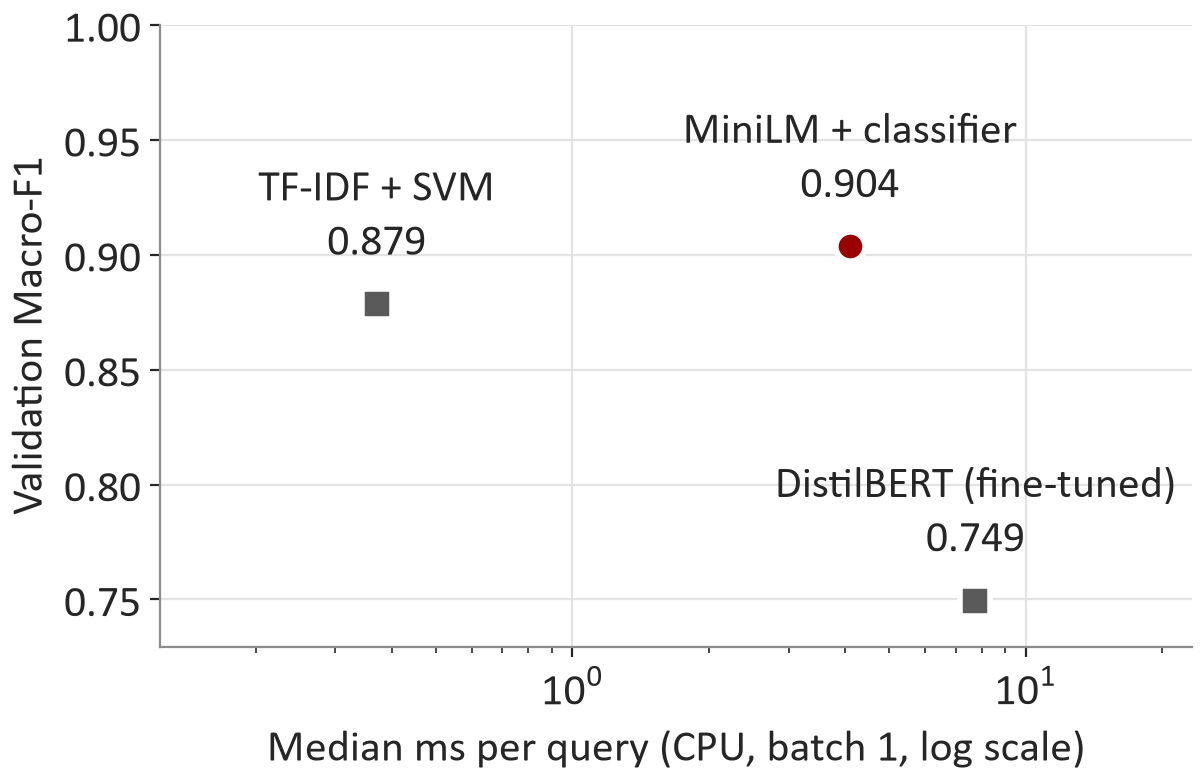
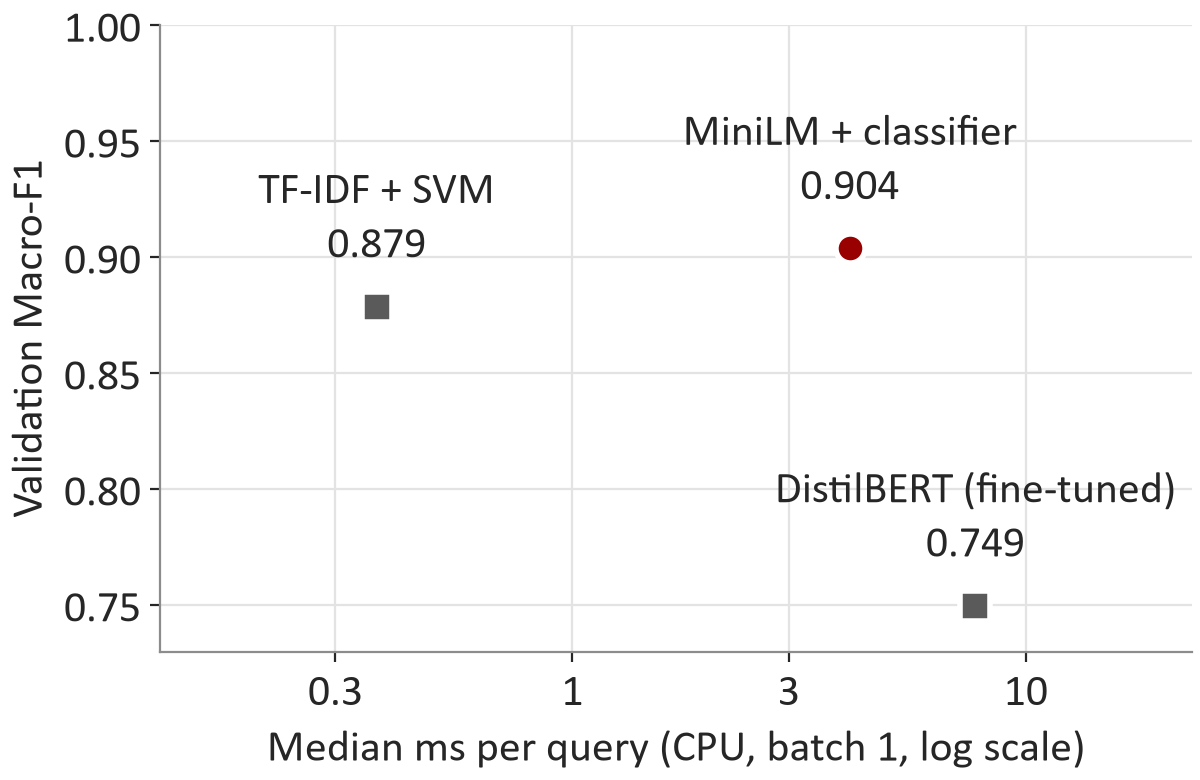
Align M3 numbers and evidence docs with the final deck

diff --git a/m3/analysis/numbers.py b/m3/analysis/numbers.py
@@ -32,6 +32,11 @@ def pct(key, v, src, note="", nd=1):
     put(key, v, f"{v * 100:.{nd}f}%", src, note)
 
 
+def exact(d, num, den, rate):
+    """Recompute a rate from its counts when they are stored (the JSON rate is pre-rounded to 4 decimals)."""
+    return d[num] / d[den] if d.get(den) else d[rate]
+
+
 def f1(key, v, src, note=""):
     put(key, v, f"{v:.3f}", src, note)
 
@@ -133,8 +138,8 @@ def detector():
         pct(f"{v}_sel_full", d["ledger"]["ALL"]["full_span_recall"], f"results/m3/detector/{v}.json:ledger.ALL")
         pct(f"{v}_sel_leak", d["ledger"]["ALL"]["residual_leak_rate"], f"results/m3/detector/{v}.json:ledger.ALL", nd=2)
         cnt(f"{v}_sel_leaks", d["ledger"]["ALL"]["residual_leak"], f"results/m3/detector/{v}.json:ledger.ALL")
-        pct(f"{v}_sel_over", d["over_redaction"]["over_redaction_rate"], f"results/m3/detector/{v}.json:over_redaction")
-        pct(f"{v}_dev_recall", d["challenge_dev"]["by_type"]["ALL"]["detection_recall"], f"results/m3/detector/{v}.json:challenge_dev")
+        pct(f"{v}_sel_over", exact(d["over_redaction"], "flagged", "n", "over_redaction_rate"), f"results/m3/detector/{v}.json:over_redaction")
+        pct(f"{v}_dev_recall", exact(d["challenge_dev"]["by_type"]["ALL"], "found", "n", "detection_recall"), f"results/m3/detector/{v}.json:challenge_dev")
         ms(f"{v}_median_ms", d["latency"]["median_ms"], f"results/m3/detector/{v}.json:latency")
     cnt("n_trainval_ledger", read_json(DET / "V1.json")["ledger"]["ALL"]["n"], "results/m3/detector/V1.json")
     for v in ("V1", sel):
@@ -151,11 +156,11 @@ def detector():
             pct(f"{v}_test_recall_{ty}", t[ty]["detection_recall"], src + f":ledger_test.{ty}")
         cnt(f"{v}_all_leaks", a["ALL"]["residual_leak"], src + ":ledger_all_13083.ALL")
         pct(f"{v}_all_recall", a["ALL"]["detection_recall"], src + ":ledger_all_13083.ALL")
-        pct(f"{v}_test_over", d["over_redaction_test"]["over_redaction_rate"], src + ":over_redaction_test")
+        pct(f"{v}_test_over", exact(d["over_redaction_test"], "flagged", "n", "over_redaction_rate"), src + ":over_redaction_test")
         h = d["challenge_heldout"]
-        pct(f"{v}_held_recall", h["by_type"]["ALL"]["detection_recall"], src + ":challenge_heldout.by_type.ALL")
+        pct(f"{v}_held_recall", exact(h["by_type"]["ALL"], "found", "n", "detection_recall"), src + ":challenge_heldout.by_type.ALL")
         pct(f"{v}_held_leak", h["by_type"]["ALL"]["residual_leak_rate"], src + ":challenge_heldout.by_type.ALL")
-        pct(f"{v}_held_neg_fp", h["negatives"]["false_positive_rate"], src + ":challenge_heldout.negatives")
+        pct(f"{v}_held_neg_fp", exact(h["negatives"], "flagged", "n", "false_positive_rate"), src + ":challenge_heldout.negatives")
         for ty in ("PERSON", "EMAIL", "PHONE", "ADDRESS"):
             pct(f"{v}_held_recall_{ty}", h["by_type"][ty]["detection_recall"], src + f":challenge_heldout.by_type.{ty}")
         ms(f"{v}_all_median_ms", d["latency_all"]["median_ms"], src + ":latency_all")
@@ -192,7 +197,7 @@ def models():
     f1("b0_accuracy", v["accuracy"], b0 + ":val.C1.accuracy", "majority-class floor")
     put("b0_macro_f1", v["macro_f1"], f"{v['macro_f1']:.4f}", b0 + ":val.C1.macro_f1", "majority-class floor")
     for k, other in (("gap_b2_b1", "e1_b1_macro_f1"), ("gap_b2_t1", "e1_t1_macro_f1")):
-        g = round(N["e1_b2_macro_f1"]["value"], 3) - round(N[other]["value"], 3)  # matches the 3-decimal values shown
+        g = N["e1_b2_macro_f1"]["value"] - N[other]["value"]  # unrounded scores, rounded once for display
         put(k, g, f"{abs(g) * 100:.1f} pp", f"derived: e1_b2_macro_f1 - {other}", "unsigned gap in validation Macro-F1")
     put("speedup_b1_vs_b2", N["e1_b2_ms"]["value"] / N["e1_b1_ms"]["value"],
         f"{N['e1_b2_ms']['value'] / N['e1_b1_ms']['value']:.0f}x", "derived: median ms b2 / b1")
@@ -298,6 +303,16 @@ def experiments():
     # risk-coverage
     rc = read_json(AN / "risk_coverage.json")
     put("tau", rc["tau"], f"{rc['tau']:.2f}", "results/m3/analysis/risk_coverage.json:tau")
+    put("tau_exact", rc["tau"], f"{rc['tau']:.3f}", "results/m3/analysis/risk_coverage.json:tau")
+    fp = rc.get("final_pipeline")
+    if fp:
+        src = "results/m3/analysis/risk_coverage.json:final_pipeline"
+        note = "detector + generic masking + retrained classifier, same threshold, test"
+        cnt("rc_final_n_auto", fp["n_auto"], src, note)
+        cnt("rc_final_n_auto_correct", fp["n_auto_correct"], src, note)
+        pct("rc_final_cov", fp["n_auto"] / fp["n"], src, note)
+        pct("rc_final_prec", fp["n_auto_correct"] / fp["n_auto"], src, note)
+        pct("rc_final_queue", 1 - fp["n_auto"] / fp["n"], src, note)
     for c in ("C1", best, "D" + best[1]):
         t = rc["test"].get(c)
         if t:

diff --git a/m3/analysis/risk.py b/m3/analysis/risk.py
@@ -51,6 +51,18 @@ def main():
             rows.append({"condition": c, "coverage": round(float(cv[j]), 4), "precision": round(float(pr[j]), 4),
                          "threshold": round(float(t[j]), 4)})
     from m3.common import write_json
+    # Final pipeline (selected detector + generic masking + classifier retrained on generic text) at the same
+    # threshold. Descriptive only: tau is not re-tuned on test.
+    run, cond = P["retrained"]["conds"]["D3"]
+    ids, gold, pred, cf = load(run, cond, labels)
+    auto = cf >= tau
+    ok = pred == gold
+    res["final_pipeline"] = {"run": run, "condition": cond, "n": int(len(gold)), "n_auto": int(auto.sum()),
+                             "n_auto_correct": int((auto & ok).sum()),
+                             "coverage": round(float(auto.mean()), 4),
+                             "auto_precision": round(float(ok[auto].mean()), 4),
+                             "review_queue_share": round(float(1 - auto.mean()), 4),
+                             "overall_accuracy": round(float(ok.mean()), 4)}
     write_json(OUT / "risk_coverage.json", res)
     with open(OUT / "risk_curve.csv", "w", newline="", encoding="utf-8") as f:
         w = csv.DictWriter(f, fieldnames=list(rows[0]), lineterminator="\n")

diff --git a/m3/analysis/figures.py b/m3/analysis/figures.py
@@ -57,6 +57,8 @@ def fig_model_tradeoff():
         ax.annotate(f"{name}\n{f1:.3f}", (ms, f1), textcoords="offset points", xytext=(0, 12), ha="center",
                     va="bottom", fontsize=16, color=TEXT)
     ax.set_xscale("log")
+    ax.set_xticks([0.3, 1, 3, 10], ["0.3", "1", "3", "10"])  # plain labels; log-format exponents render below 16 pt
+    ax.minorticks_off()
     ax.set_xlabel("Median ms per query (CPU, batch 1, log scale)")
     ax.set_ylabel("Validation Macro-F1")
     lo = min(p[2] for p in pts)
@@ -186,7 +188,7 @@ def fig_risk_coverage():
                 marker=mk, markersize=5, linewidth=2, label=f"{COND[c]} (frozen model)")
     t = rc["test"]["C1"]
     ax.scatter([t["coverage"] * 100], [t["auto_precision"] * 100], s=120, color=DARK, zorder=4, marker="D",
-               label=f"Threshold tau = {rc['tau']:.2f} (raw)")
+               label=f"Confidence threshold = {rc['tau']:.2f} (raw)")
     ax.set_xlabel("Auto-routed share (%)")
     ax.set_ylabel("Precision (%)")
     ax.legend(loc="lower left", frameon=False)

diff --git a/docs/M3_EVIDENCE_CROSSWALK.md b/docs/M3_EVIDENCE_CROSSWALK.md
@@ -1,56 +1,71 @@
 # M3 evidence crosswalk
 
-Every number on the M3 slides is read from `results/m3/deck_numbers.json`, which records the file and key
-it came from. This table lists, per slide, the numbers shown and their source files. Thresholds come from
+Computed numbers on the M3 slides come from `results/m3/deck_numbers.json` (rebuild with
+`python -m m3.analysis.numbers`), which records the file and key each value was read from. This table lists,
+per slide (deck footer numbers), the numbers shown and their source files. Thresholds come from
 `results/m3/preregistration.md`; hyperparameters from `configs/frozen_model.yaml` and `m3/experiments.yaml`;
-published figures from the cited papers (see `docs/M3_REFERENCES_VERIFIED.md`).
+published figures from the cited papers (see `docs/M3_REFERENCES_VERIFIED.md`). A few figures derived by hand
+during final editing are listed in the last table.
 
 | Slide | Title | Numbers shown (display value) | Source files |
 |---|---|---|---|
-| 1 | Introduction | challenge_n = 376; ex_record_id = B77_test_02180; ex_text_short = My email is [REDACTED]...; ex_entity_type = EMAIL; ex_entity_start = 12; ex_entity_end = 36; ex_residual_pii_check = PASS; ex_predicted_intent = beneficiary_not_allowed; ex_confidence = 0.96; ex_route = auto; detector_variant = V2; best_method = generic | data/m3/challenge_set.jsonl<br>results/m3/analysis/analysis.json<br>results/m3/analysis/output_record_example.json<br>results/m3/detector/selection.json |
-| 4 | Motivation | best_method = generic; retrained_C3_f1 = 0.916; retrained_C1_f1 = 0.894; V2_test_leaks = 0; n_test = 3,080 | data/m3/splits.json<br>results/m3/analysis/analysis.json<br>results/m3/analysis/main_table.csv<br>results/m3/detector/final_V2.json |
-| 6 | Gap and Differentiator | n_condition_rows_modeled = 104,576; n_runs = 19; challenge_n = 376; challenge_formats = 39; challenge_neg = 64; V1_test_leaks = 8; V2_test_leaks = 0; V1_held_recall = 89.1%; V2_held_recall = 98.1% | data/m3/challenge_set.jsonl<br>data/m3/conditions.jsonl.gz<br>results/m3/detector/final_V1.json<br>results/m3/detector/final_V2.json<br>results/m3/runs/*/metrics.json |
+| 1 | Introduction | ex_record_id = B77_test_02180; ex_text_short = My email is [REDACTED]...; ex_entity_type = EMAIL; ex_entity_start = 12; ex_entity_end = 36; ex_residual_pii_check = PASS; ex_predicted_intent = beneficiary_not_allowed; ex_confidence = 0.96; ex_route = auto; detector_variant = V2; best_method = generic | results/m3/analysis/analysis.json<br>results/m3/analysis/output_record_example.json<br>results/m3/detector/selection.json |
+| 4 | Motivation | n_test = 3,080; V1_test_leaks = 8; V1_test_leak_rate = 0.26% | data/m3/splits.json<br>results/m3/detector/final_V1.json |
+| 6 | Gap and Differentiator | n_condition_rows_modeled = 104,576; n_runs = 19; challenge_n = 376; challenge_formats = 39; challenge_neg = 64 | data/m3/challenge_set.jsonl<br>data/m3/conditions.jsonl.gz<br>results/m3/runs/*/metrics.json |
 | 7 | Unified Data Summary | m2_source_rows = 13,083; m2_intents = 77; faker_version = 37.12.0; m2_injection_rows = 13,083; challenge_n = 376; n_challenge_dev = 188; n_challenge_heldout = 188; b77_train_bytes = 839,073; b77_train_sha_prefix = b06e26ac6755; b77_test_bytes = 239,961; b77_test_sha_prefix = d12d6e3bc4c3 | data/evidence_summary.json<br>data/m3/challenge_set.jsonl<br>data/profile.json<br>data/source_manifest.json |
-| 8 | Data Source A: BANKING77 Metadata and Collection | hash_example_id = B77_train_00000; hash_example_text = I am still waiting on my card?; b77ex_category = card_arrival; b77ex_acquired_date = 2026-10-03; b77ex_char_count = 30 | data/banking_records.jsonl<br>recomputed: sha256(casefold(NFC + whitespace-normalized text)) |
+| 8 | Data Source A: BANKING77 Metadata and Collection | hash_example_id = B77_train_00000; hash_example_text = I am still waiting on my card?; hash_example_sha256 = 7d46f1aa7c0a83b4fe386b6c72b132fd3650942a23d0110451cf3c3f6b85b8aa; b77ex_category = card_arrival; b77ex_acquired_date = 2026-10-03; b77ex_char_count = 30 | data/banking_records.jsonl<br>recomputed: sha256(casefold(NFC + whitespace-normalized text)) |
 | 9 | Data Source B: Faker Ledger Metadata and Collection | m2ex_record_id = B77_train_00005; m2ex_pii_type = EMAIL; m2ex_pii_value = davisstephanie@example.com; m2ex_start_char = 46; m2ex_end_char = 72; m2ex_template_id = suffix; faker_version = 37.12.0; m2_type_PERSON = 3,235; m2_type_EMAIL = 3,161; m2_type_PHONE = 3,336; m2_type_ADDRESS = 3,351 | data/evidence_summary.json<br>data/profile.json |
 | 10 | Data Source C: Challenge Set Metadata and Collection | challenge_n = 376; chex_id = CH_0106; chex_subset = challenge_dev; chex_text_short = Reply to kofi+alerts@exa...; chex_type = EMAIL; chex_start = 9; chex_end = 32; chex_value = kofi+alerts@example.net; challenge_formats = 39; challenge_neg_groups = 8; chex_format_tag = plus_email | data/m3/challenge_set.jsonl |
 | 11 | Pre-processing Plan | excluded_rows = 11; m2_eligible_train_rows = 9,992; max_len = 96; tokens_p999_max = 88; test_truncated = 0; tokens_max = 117; trainval_over_maxlen = 4 | data/evidence_summary.json<br>data/profile.json<br>results/m3/data/max_len.json<br>results/m3/data/token_lengths.csv |
 | 12 | Workflow v2: Diagram | detector_variant = V2; tau = 0.64 | results/m3/analysis/risk_coverage.json<br>results/m3/detector/selection.json |
-| 13 | Workflow v2: Explanation | V2_all_leaks = 0; m2_source_rows = 13,083; rc_cov_C1 = 77.0%; e2e_median_ms = 21.2 ms | data/evidence_summary.json<br>results/m3/analysis/risk_coverage.json<br>results/m3/detector/final_V2.json<br>results/m3/latency.json |
-| 14 | Model Selection | model_name = MiniLM embeddings + logistic regression; e1_b2_macro_f1 = 0.904; e1_b2_ms = 4.1 ms; test_truncated = 0; tokens_p999_max = 88; e1_b2_params = 22.7M; speedup_b1_vs_b2 = 11x; gap_b2_b1 = 2.5 pp; gap_b2_t1 = 15.5 pp; detector_variant = V2 | configs/frozen_model.yaml<br>derived: e1_b2_macro_f1 - e1_b1_macro_f1<br>derived: e1_b2_macro_f1 - e1_t1_macro_f1<br>derived: median ms b2 / b1<br>results/m3/data/max_len.json<br>results/m3/data/token_lengths.csv<br>results/m3/detector/selection.json<br>results/m3/latency.json<br>results/m3/runs/e1_minilm_clf_c1_s553/metrics.json |
-| 15 | Operationalization: What the Model Must Produce | tau = 0.64; rc_cov_C1 = 77.0%; rc_prec_C1 = 97.3% | results/m3/analysis/risk_coverage.json |
-| 16 | Adaptation Strategy | e1_b2_macro_f1 = 0.904; e1_t1_macro_f1 = 0.749; e1_b1_macro_f1 = 0.879; frozen_C = 10 | configs/frozen_model.yaml<br>results/m3/runs/e1_distilbert_lr2e-05_c1_s553/metrics.json<br>results/m3/runs/e1_minilm_clf_c1_s553/metrics.json<br>results/m3/runs/e1_tfidf_svm_c1_s553/metrics.json |
-| 17 | Baselines and Metrics | b0_macro_f1 = 0.0005 | results/m3/runs/b0_majority_c1_s553/metrics.json |
-| 18 | Evaluation Data Plan | n_train = 7,993; train_min_per_intent = 28; train_max_per_intent = 149; n_val = 1,999; val_min_per_intent = 7; val_max_per_intent = 38; n_test = 3,080; test_min_per_intent = 40; n_challenge_dev = 188; n_challenge_heldout = 188; share_test_PERSON = 23.6%; share_test_EMAIL = 23.9%; share_test_PHONE = 26.3%; share_test_ADDRESS = 26.2%; share_test_prefix = 48.8%; ci_halfwidth_acc = 1.1; wilson_halfwidth_90 = 10; review24_pass = 24; excluded_rows = 11; n_test_evals = 15 | data/m3/challenge_set.jsonl<br>data/m3/detector_review_24.csv<br>data/m3/splits.json<br>data/profile.json<br>m3/analysis/stats.py:wilson(36, 40)<br>results/m3/analysis/main_table.csv<br>results/m3/test_eval_log.csv |
-| 19 | Experimental Design | n_runs = 19; wall_e1 = 5.1 min; wall_e2 = 1.3 min; wall_e3 = 0.1 min; wall_e4 = 0.6 min; max_len = 96 | results/m3/data/max_len.json<br>results/m3/runs/*/manifest.json<br>results/m3/runs/*/metrics.json |
-| 20 | Preliminary Results: Model Selection (Exp 1) | e1_b2_macro_f1 = 0.904; gap_b2_b1 = 2.5 pp; speedup_b1_vs_b2 = 11x; n_val = 1,999; e1_b2_params = 22.7M; e1_b2_accuracy = 0.902; e1_b2_macro_precision = 0.912; e1_b2_macro_recall = 0.901; e1_b2_ms = 4.1 ms; e1_t1_params = 67.0M; e1_t1_accuracy = 0.802; e1_t1_macro_precision = 0.785; e1_t1_macro_recall = 0.761; e1_t1_macro_f1 = 0.749; e1_t1_ms = 7.7 ms; e1_b1_params = 4.1M; e1_b1_accuracy = 0.879; e1_b1_macro_precision = 0.884; e1_b1_macro_recall = 0.877; e1_b1_macro_f1 = 0.879; e1_b1_ms = 0.37 ms; b0_accuracy = 0.019; b0_macro_f1 = 0.0005; t1_last_epoch_gain = +3.2 pp | data/m3/splits.json<br>derived: e1_b2_macro_f1 - e1_b1_macro_f1<br>derived: median ms b2 / b1<br>results/m3/latency.json<br>results/m3/runs/b0_majority_c1_s553/metrics.json<br>results/m3/runs/e1_distilbert_lr2e-05_c1_s553/metrics.json<br>results/m3/runs/e1_distilbert_lr2e-05_c1_s553/train_curve.csv<br>results/m3/runs/e1_minilm_clf_c1_s553/metrics.json<br>results/m3/runs/e1_tfidf_svm_c1_s553/metrics.json |
-| 21 | Preliminary Results: Sanitization Methods (Exp 2) | frozen_C3_d = -3.7 pp; frozen_C2_d = +0.9 pp; frozen_C2_d_ci = +0.1 to +1.7; retrained_C2_d = +2.4 pp; retrained_C2_d_ci = +1.7 to +3.2; frozen_C3_d_ci = -4.8 to -2.7; retrained_C3_d = +2.2 pp; retrained_C3_d_ci = +1.5 to +3.0; frozen_C4_d = +0.6 pp; frozen_C4_d_ci = -0.1 to +1.5; retrained_C4_d = +1.9 pp; retrained_C4_d_ci = +1.3 to +2.7; thr_T3 = PASS; thr_T2 = PASS; frozen_C3_p = < 0.001; frozen_C4_p = 0.15 | derived from deck_numbers + results/m3/preregistration.md<br>results/m3/analysis/main_table.csv |
-| 22 | Preliminary Results: Detector and Ablations (Exp 3-4) | V2_test_leaks = 0; retrained_detector_cost = -1.3 pp; retrained_C0_d = +3.2 pp; n_test = 3,080; detector_variant = V2; V1_test_recall = 99.7%; V2_test_recall = 100.0%; V1_test_full = 99.2%; V2_test_full = 99.7%; V1_test_leaks = 8; V1_test_leak_rate = 0.26%; V2_test_leak_rate = 0.00%; V1_test_partial = 3; V2_test_partial = 0; V1_test_over = 3.0%; V2_test_over = 2.9%; V1_held_recall = 89.1%; V2_held_recall = 98.1%; V1_all_median_ms = 5.8 ms; V2_all_median_ms = 17.5 ms; person_missed = 44; person_missed_left = 32; person_missed_other_type = 12; person_partial_90 = 90; V2_held_neg_fp = 21.9%; frozen_detector_cost = -1.1 pp; place_gap_frozen = -1.1 pp | data/m3/splits.json<br>derived: Macro-F1 D_k - C_k (frozen)<br>derived: Macro-F1 D_k - C_k (retrained)<br>derived: accuracy prefix - suffix on C1<br>results/m3/analysis/main_table.csv<br>results/m3/detector/final_V1.json<br>results/m3/detector/final_V2.json<br>results/m3/detector/m2_reproduction.json<br>results/m3/detector/person_44_breakdown.csv<br>results/m3/detector/selection.json |
-| 23 | Error Analysis and Failure Modes | ep1_count = 69; ep1_pop = 326; ep1_share = 21.2%; ep2_count = 53; ep2_pop = 326; ep2_share = 16.3%; small_worst_intent = card acceptance; small_worst_recall = 77.5%; ep4_count = 202; ep4_pop = 214; ep4_share = 94.4%; ep3_count = 12; ep3_pop = 214; ep3_share = 5.6%; ep7_count = 41; ep7_pop = 91; ep7_share = 45.1% | results/m3/analysis/error_patterns.csv<br>results/m3/analysis/small_intents.csv |
-| 24 | Operational Constraints and Monitoring Plan | e2e_records_per_hour = 160,929; detector_variant = V2; det_median_ms_lat = 16.9 ms; det_p95_ms_lat = 24.1 ms; det_records_per_hour = 208,964; cls_median_ms_lat = 4.1 ms; cls_p95_ms_lat = 6.2 ms; cls_records_per_hour_b64 = 1,275,977; e2e_median_ms = 21.2 ms; e2e_p95_ms = 30.2 ms; cpu_name = 13th Gen Intel(R) Core(TM) i7-13700KF; tau = 0.64; rc_queue_C1 = 23.0% | results/m3/analysis/risk_coverage.json<br>results/m3/detector/selection.json<br>results/m3/latency.json |
-| 25 | Business Value Proposition | best_method = generic; e2e_records_per_hour = 160,929; hours_per_million = 6.2; mis_retrained_D3 = 96; mis_retrained_C1 = 106; mis_retrained_C3 = 83; leaks10k_V1 = 26; detector_variant = V2; leaks10k_V2 = 0; over1k_V2 = 29.5 | results/m3/analysis/analysis.json<br>results/m3/analysis/business.json<br>results/m3/detector/selection.json<br>results/m3/latency.json |
-| 26 | Limitations and Risks | retrained_C0_d = +3.2 pp; V1_held_recall_ADDRESS = 77.3%; V2_held_recall_ADDRESS = 97.7%; V2_held_recall_PERSON = 95.8%; e1_t1_macro_f1 = 0.749 | results/m3/analysis/main_table.csv<br>results/m3/detector/final_V1.json<br>results/m3/detector/final_V2.json<br>results/m3/runs/e1_distilbert_lr2e-05_c1_s553/metrics.json |
-| 28 | Key Takeaways | n_runs = 19; challenge_n = 376; best_method = generic; retrained_C3_f1 = 0.916; retrained_C1_f1 = 0.894; V2_test_leaks = 0; frozen_C3_d = -3.7 pp; thr_T1 = PASS; thr_T2 = PASS; thr_T3 = PASS; thr_T4 = PASS; thr_T5 = PASS; thr_T6 = PASS; thr_T7 = PASS; retrained_C3_d = +2.2 pp | data/m3/challenge_set.jsonl<br>derived from deck_numbers + results/m3/preregistration.md<br>results/m3/analysis/analysis.json<br>results/m3/analysis/main_table.csv<br>results/m3/detector/final_V2.json<br>results/m3/runs/*/metrics.json |
+| 13 | Workflow v2: Explanation | V2_all_leaks = 0; m2_source_rows = 13,083; rc_final_cov = 77.9%; rc_final_prec = 97.9%; e2e_median_ms = 21.2 ms | data/evidence_summary.json<br>results/m3/analysis/risk_coverage.json<br>results/m3/detector/final_V2.json<br>results/m3/latency.json |
+| 14 | Model Selection | model_name = MiniLM embeddings + logistic regression; e1_b2_macro_f1 = 0.904; e1_b2_ms = 4.1 ms; test_truncated = 0; tokens_p999_max = 88; e1_b2_params = 22.7M; speedup_b1_vs_b2 = 11x; gap_b2_b1 = 2.5 pp; gap_b2_t1 = 15.4 pp; detector_variant = V2 | configs/frozen_model.yaml:model.family<br>derived: e1_b2_macro_f1 - e1_b1_macro_f1<br>derived: e1_b2_macro_f1 - e1_t1_macro_f1<br>derived: median ms b2 / b1<br>results/m3/data/max_len.json<br>results/m3/data/token_lengths.csv<br>results/m3/detector/selection.json<br>results/m3/latency.json<br>results/m3/runs/e1_minilm_clf_c1_s553/metrics.json |
+| 15 | Operationalization: What the Model Must Produce | tau = 0.64; tau_exact = 0.637; rc_final_prec = 97.9% | results/m3/analysis/risk_coverage.json |
+| 16 | Adaptation Strategy | e1_b2_macro_f1 = 0.904; e1_t1_macro_f1 = 0.749; e1_b1_macro_f1 = 0.879; frozen_C = 10; tau_exact = 0.637 | configs/frozen_model.yaml<br>results/m3/analysis/risk_coverage.json<br>results/m3/runs/e1_distilbert_lr2e-05_c1_s553/metrics.json<br>results/m3/runs/e1_minilm_clf_c1_s553/metrics.json<br>results/m3/runs/e1_tfidf_svm_c1_s553/metrics.json |
+| 17 | Evaluation Baselines and Training Settings | b0_macro_f1 = 0.0005; e1_b2_macro_f1 = 0.904; b1_params_C = 10; frozen_C = 10 | configs/frozen_model.yaml<br>results/m3/runs/b0_majority_c1_s553/metrics.json<br>results/m3/runs/e1_minilm_clf_c1_s553/metrics.json |
+| 19 | Evaluation Data Plan | n_train = 7,993; train_min_per_intent = 28; train_max_per_intent = 149; n_val = 1,999; val_min_per_intent = 7; val_max_per_intent = 38; n_test = 3,080; test_min_per_intent = 40; n_challenge_dev = 188; n_challenge_heldout = 188; share_test_PERSON = 23.6%; share_test_EMAIL = 23.9%; share_test_PHONE = 26.3%; share_test_ADDRESS = 26.2%; share_test_prefix = 48.8%; ci_halfwidth_acc = 1.1; wilson_halfwidth_90 = 10; review24_pass = 24; excluded_rows = 11; n_test_evals = 15 | data/m3/challenge_set.jsonl<br>data/m3/detector_review_24.csv<br>data/m3/splits.json<br>data/profile.json<br>m3/analysis/stats.py:wilson(36, 40)<br>results/m3/analysis/main_table.csv<br>results/m3/test_eval_log.csv |
+| 20 | Experimental Design | n_runs = 19; V2_median_ms = 17.6 ms; wall_e1 = 5.1 min; wall_e2 = 1.3 min; wall_e3 = 0.1 min; wall_e4 = 0.6 min | results/m3/detector/V2.json<br>results/m3/runs/*/manifest.json<br>results/m3/runs/*/metrics.json |
+| 21 | Preliminary Results: Model Selection (Exp 1) | e1_b2_macro_f1 = 0.904; n_val = 1,999; e1_b2_params = 22.7M; e1_b2_accuracy = 0.902; e1_b2_macro_precision = 0.912; e1_b2_macro_recall = 0.901; e1_b2_ms = 4.1 ms; e1_t1_params = 67.0M; e1_t1_accuracy = 0.802; e1_t1_macro_precision = 0.785; e1_t1_macro_recall = 0.761; e1_t1_macro_f1 = 0.749; e1_t1_ms = 7.7 ms; e1_b1_params = 4.1M; e1_b1_accuracy = 0.879; e1_b1_macro_precision = 0.884; e1_b1_macro_recall = 0.877; e1_b1_macro_f1 = 0.879; e1_b1_ms = 0.37 ms; b0_accuracy = 0.019; b0_macro_f1 = 0.0005; frozen_C1_f1 = 0.894; t1_last_epoch_gain = +3.2 pp; retrained_C4_d = +1.9 pp; retrained_C2_d = +2.4 pp; retrained_tfidf_C3_d = +0.2 pp; retrained_tfidf_C4_d = +0.2 pp; retrained_tfidf_C2_d = +0.3 pp | data/m3/splits.json<br>results/m3/analysis/main_table.csv<br>results/m3/latency.json<br>results/m3/runs/b0_majority_c1_s553/metrics.json<br>results/m3/runs/e1_distilbert_lr2e-05_c1_s553/metrics.json<br>results/m3/runs/e1_distilbert_lr2e-05_c1_s553/train_curve.csv<br>results/m3/runs/e1_minilm_clf_c1_s553/metrics.json<br>results/m3/runs/e1_tfidf_svm_c1_s553/metrics.json |
+| 22 | Preliminary Results: Sanitization Methods (Exp 2) | frozen_C2_d = +0.9 pp; frozen_C2_d_ci = +0.1 to +1.7; retrained_C2_d = +2.4 pp; retrained_C2_d_ci = +1.7 to +3.2; frozen_C3_d = -3.7 pp; frozen_C3_d_ci = -4.8 to -2.7; retrained_C3_d = +2.2 pp; retrained_C3_d_ci = +1.5 to +3.0; frozen_C4_d = +0.6 pp; frozen_C4_d_ci = -0.1 to +1.5; retrained_C4_d = +1.9 pp; retrained_C4_d_ci = +1.3 to +2.7; thr_T3 = PASS; thr_T2 = PASS; frozen_C3_p = < 0.001; frozen_C4_p = 0.15; best_method = generic | derived from deck_numbers + results/m3/preregistration.md<br>results/m3/analysis/analysis.json<br>results/m3/analysis/main_table.csv |
+| 23 | Preliminary Results: Detector and Ablations (Exp 3-4) | V2_test_leaks = 0; retrained_detector_cost = -1.3 pp; retrained_C0_d = +3.2 pp; n_test = 3,080; detector_variant = V2; V1_test_recall = 99.7%; V2_test_recall = 100.0%; V1_test_full = 99.2%; V2_test_full = 99.7%; V1_test_leaks = 8; V1_test_leak_rate = 0.26%; V2_test_leak_rate = 0.00%; V1_test_partial = 3; V2_test_partial = 0; V1_test_over = 3.0%; V2_test_over = 3.0%; V1_held_recall = 89.1%; V2_held_recall = 98.1%; V1_all_median_ms = 5.8 ms; V2_all_median_ms = 17.5 ms; person_missed = 44; person_missed_left = 32; person_missed_other_type = 12; person_partial_90 = 90; V2_held_neg_fp = 21.9%; frozen_detector_cost = -1.1 pp; retrained_D3_f1 = 0.904; retrained_C1_f1 = 0.894 | data/m3/splits.json<br>derived: Macro-F1 D_k - C_k (frozen)<br>derived: Macro-F1 D_k - C_k (retrained)<br>results/m3/analysis/main_table.csv<br>results/m3/detector/final_V1.json<br>results/m3/detector/final_V2.json<br>results/m3/detector/m2_reproduction.json<br>results/m3/detector/person_44_breakdown.csv<br>results/m3/detector/selection.json |
+| 24 | Error Analysis and Failure Modes | ep1_count = 69; ep1_pop = 326; ep1_share = 21.2%; ep2_count = 53; ep2_pop = 326; ep2_share = 16.3%; small_worst_recall = 77.5%; ep4_count = 202; ep4_pop = 214; ep4_share = 94.4%; ep3_count = 12; ep3_pop = 214; ep3_share = 5.6%; ep7_count = 41; ep7_pop = 91; ep7_share = 45.1% | results/m3/analysis/error_patterns.csv<br>results/m3/analysis/small_intents.csv |
+| 25 | Operational Performance and Constraints | detector_variant = V2; det_median_ms_lat = 16.9 ms; det_p95_ms_lat = 24.1 ms; det_records_per_hour = 208,964; cls_median_ms_lat = 4.1 ms; cls_p95_ms_lat = 6.2 ms; cls_records_per_hour_b64 = 1,275,977; e2e_median_ms = 21.2 ms; e2e_p95_ms = 30.2 ms; e2e_records_per_hour = 160,929 | results/m3/detector/selection.json<br>results/m3/latency.json |
+| 26 | Operational Monitoring and Routing | tau_exact = 0.637; tau = 0.64; rc_cov_C1 = 77.0%; rc_prec_C1 = 97.3%; rc_queue_C1 = 23.0%; detector_variant = V2; rc_final_cov = 77.9%; rc_final_prec = 97.9%; rc_final_queue = 22.1%; rc_final_n_auto = 2,400; n_test = 3,080; rc_final_n_auto_correct = 2,350 | data/m3/splits.json<br>results/m3/analysis/risk_coverage.json<br>results/m3/detector/selection.json |
+| 27 | Business Value Proposition | best_method = generic; e2e_records_per_hour = 160,929; hours_per_million = 6.2; mis_retrained_D3 = 96; mis_retrained_C1 = 106; mis_retrained_C3 = 83; leaks10k_V1 = 26; detector_variant = V2; leaks10k_V2 = 0; over1k_V2 = 29.5; mean_bytes = 95 | results/m3/analysis/analysis.json<br>results/m3/analysis/business.json<br>results/m3/detector/selection.json<br>results/m3/latency.json |
+| 28 | Limitations and Risks | retrained_C0_d = +3.2 pp; V1_held_recall_ADDRESS = 77.3%; V2_held_recall_ADDRESS = 97.7%; V2_held_recall_PERSON = 95.8%; e1_t1_macro_f1 = 0.749 | results/m3/analysis/main_table.csv<br>results/m3/detector/final_V1.json<br>results/m3/detector/final_V2.json<br>results/m3/runs/e1_distilbert_lr2e-05_c1_s553/metrics.json |
+| 30 | Key Takeaways | n_runs = 19; challenge_n = 376; retrained_D3_f1 = 0.904; retrained_C1_f1 = 0.894; V2_test_leaks = 0; n_test = 3,080; thr_T1 = PASS; thr_T2 = PASS; thr_T3 = PASS; thr_T4 = PASS; thr_T5 = PASS; thr_T6 = PASS; thr_T7 = PASS; e1_b2_macro_f1 = 0.904; retrained_C2_d = +2.4 pp; frozen_C2_d = +0.9 pp; V2_held_recall = 98.1%; V2_test_over = 3.0%; e2e_median_ms = 21.2 ms; best_method = generic; retrained_C3_d = +2.2 pp; retrained_D3_d = +0.9 pp; rc_final_prec = 97.9% | data/m3/challenge_set.jsonl<br>data/m3/splits.json<br>derived from deck_numbers + results/m3/preregistration.md<br>results/m3/analysis/analysis.json<br>results/m3/analysis/main_table.csv<br>results/m3/analysis/risk_coverage.json<br>results/m3/detector/final_V2.json<br>results/m3/latency.json<br>results/m3/runs/*/metrics.json<br>results/m3/runs/e1_minilm_clf_c1_s553/metrics.json |
 | R1 | References | faker_version = 37.12.0 | data/profile.json |
 | A1 | Appendix A1: Response to M1 and M2 Feedback | person_missed = 44; person_missed_left = 32; person_missed_other_type = 12 | results/m3/detector/person_44_breakdown.csv |
-| A2 | Appendix A2: Full Run Table and Training Curve | n_runs = 19; seed_sd_C1 = 0.000 | results/m3/analysis/analysis.json<br>results/m3/runs/*/metrics.json |
+| A2 | Appendix A2: Full Run Table and Training Curve | seed_sd_C1 = 0.000 | results/m3/analysis/analysis.json |
 | A3 | Appendix A3: Per-Intent Results for Small Classes | terc_range_low = 28-91; terc_frozen_C1_low = 90.4%; terc_frozen_C1_mid = 89.9%; terc_frozen_C1_high = 87.9% | results/m3/analysis/terciles.csv |
-| A4 | Appendix A4: Reproducibility | cpu_name = 13th Gen Intel(R) Core(TM) i7-13700KF | results/m3/latency.json |
-| A5 | Appendix A5: Detector Details | V0_sel_leaks = 956; V0_sel_over = 3.2%; V0_dev_recall = 87.2%; V1_sel_leaks = 24; V1_sel_over = 3.2%; V1_dev_recall = 89.1%; V2_sel_leaks = 0; V2_sel_over = 3.1%; V2_dev_recall = 99.4%; V3_sel_leaks = 0; V3_sel_over = 3.3%; V3_dev_recall = 93.0% | results/m3/detector/V0.json<br>results/m3/detector/V1.json<br>results/m3/detector/V2.json<br>results/m3/detector/V3.json |
+| A4 | Appendix A4: Detector Details | V0_sel_leaks = 956; V0_sel_over = 3.2%; V0_dev_recall = 87.2%; V1_sel_leaks = 24; V1_sel_over = 3.2%; V1_dev_recall = 89.1%; V2_sel_leaks = 0; V2_sel_over = 3.1%; V2_dev_recall = 99.4%; V3_sel_leaks = 0; V3_sel_over = 3.3%; V3_dev_recall = 92.9% | results/m3/detector/V0.json<br>results/m3/detector/V1.json<br>results/m3/detector/V2.json<br>results/m3/detector/V3.json |
+| A5 | Appendix A5: Remaining Source Fields | b77ex_split = train; b77ex_source_row = 0; b77ex_source_file = train.csv; chex_type = EMAIL; chex_carrier = B77_train_07787 | data/banking_records.jsonl<br>data/m3/challenge_set.jsonl |
 
 ## Fixed design values shown on slides (not computed results)
 
 | Value | Where it is set |
 |---|---|
 | Seeds 553, 554, 555; 80/20 split | `m3/common.py`, `m3/data/splits.py`, `m3/experiments.yaml` |
-| Thresholds T1-T7 (0.90, 1.0 pp, 2.0 pp, 0.25%, 90%, 5%, 100 ms) | `results/m3/preregistration.md` |
+| Thresholds T1-T7 (0.90, 1.0 pp, 2.0 pp, 0.25% and 99.5%, 90%, 5%, 100 ms) | `results/m3/preregistration.md` |
 | Detector selection limits (1.0 pp over-redaction margin, 150 ms) | `results/m3/detector/selection_rule.md` |
-| 98% precision target for tau | `m3/analysis/risk.py` (TARGET) |
+| 98% precision target for the confidence threshold | `m3/analysis/risk.py` (TARGET) |
 | 500 records, 3 warm-up calls for latency | `m3/latency.py` (N, WARMUP) |
 | 8 items per challenge format group, 8 name origins, 4 PII definitions | `m3/detector/challenge_set.py`, `data/m3/challenge_set_RUBRIC.md` |
 | 40 challenge items reviewed; 24 detector samples | `data/m3/challenge_set_review.md`, `data/m3/detector_review_24.csv` |
 | Grids: SVM C 0.1-10, n-grams, min_df, class weight; head C 1, 10, 100 or MLP alpha | `m3/models/classifiers.py` (GRID) |
 | Run counts per stage (3, 1 + 4, 1, 4 + 5 = 18) | `m3/experiments.yaml`, `results/m3/runs/` |
 | DistilBERT lr, batch, epochs, weight decay, warmup; max_len | `m3/experiments.yaml`, `results/m3/data/max_len.json` |
-| Published BANKING77 accuracies 93.66% / 87.19% | [8] Table 3, see `docs/M3_REFERENCES_VERIFIED.md` |
-| Google SDP US$3.00 per GiB, 1 GiB free tier | [3], see `docs/M3_REFERENCES_VERIFIED.md` |
+| Published BANKING77 accuracies 93.66% / 87.19% | [4] Table 3, see `docs/M3_REFERENCES_VERIFIED.md` |
+| Google SDP US$3.00 per GiB, 1 GiB free tier | [7], see `docs/M3_REFERENCES_VERIFIED.md` |
+| Breach cost US$4.99M (2026) | [6] |
+
+## Figures derived by hand during final editing
+
+| Slide | Value | Derivation |
+|---|---|---|
+| 6 | 13,072 records | 13,083 ledger records minus 11 excluded rows (data/profile.json:exclusion_reasons); 13,072 x 8 conditions = 104,576 |
+| 16 | 0.49B parameters, 22x MiniLM | Qwen2.5-0.5B model card [19]; 0.49B / 22.7M (e1_b2_params) = 21.5, shown as 22x |
+| 23 | 0 leaks, 95% upper bound 0.10% | exact one-sided binomial bound for 0 of 3,080: 1 - 0.05^(1/3080) = 0.097% |
+| 27 | 95 bytes per record; 1M records = 0.09 GiB; 100M = about US$24/month | mean UTF-8 length of raw (C1) text over all 13,083 records = 95.3 bytes (data/m3/conditions.jsonl.gz); 95e6 B / 2^30 = 0.09 GiB; (95e8 B / 2^30 - 1 GiB free) x US$3.00 = US$23.5 |
+| 28 | Person recall by name origin: 7 of 8 at 100%, South Asian 75% (n = 4) | results/m3/detector/final_V2.json:challenge_heldout.by_format.PERSON/* |
+| 30 | 97.9% routing precision vs the 98% target | rc_final_prec, results/m3/analysis/risk_coverage.json:final_pipeline |

diff --git a/docs/M3_REFERENCES_VERIFIED.md b/docs/M3_REFERENCES_VERIFIED.md
@@ -1,28 +1,33 @@
 # M3 references: verification log
 
-Each reference cited in the M3 deck was opened on 2026-10-27 and its title, authors, venue, year and
-identifier were checked against the publisher's page (or Crossref/BibTeX metadata from it).
+Each reference cited in the M3 deck was opened on 2026-10-27 (references 6, 19 and 21-23 on 2026-10-29) and
+its title, authors, venue, year and identifier were checked against the publisher's page (or Crossref/BibTeX
+metadata from it).
 Numbers quoted from a source are listed with their location.
 
 | # | Reference (IEEE) | Checked at | Result |
 |---|---|---|---|
-| 1 | S. L. Garfinkel, "De-Identification of Personal Information," NISTIR 8053, NIST, Oct. 2015. | https://doi.org/10.6028/NIST.IR.8053 (Crossref record and PDF) | title and publisher match |
-| 2 | Presidio documentation (presidio-analyzer 2.2.364 used). | https://presidio.dataprivacystack.org/ | page live |
-| 3 | Google Cloud, "Sensitive Data Protection pricing." | https://cloud.google.com/sensitive-data-protection/pricing | live; content inspection US$3.00 per GiB from 1 GiB to 1 TiB per month, first 1 GiB free; content transformation US$2.00 per GiB; minimum of 1 KB billed per request for hybrid inspection. Because per-request minimums depend on batching, no total dollar figure is computed. |
-| 4 | A. Riabi, M. Mahamdi, V. Mouilleron, D. Seddah, "Cloaked Classifiers: Pseudonymization Strategies on Sensitive Classification Tasks," Proc. 5th Workshop on Privacy in NLP, ACL, 2024, pp. 123-136. | https://aclanthology.org/2024.privatenlp-1.13/ (BibTeX) | match |
-| 5 | PolyAI, BANKING77 dataset, CC BY 4.0. | https://huggingface.co/datasets/PolyAI/banking77 | page live |
-| 6 | Faker documentation, MIT license (Faker 37.12.0 used). | https://faker.readthedocs.io/en/stable/ | page live (site shows a newer release; the project pins 37.12.0) |
-| 7 | S553 lecture modules, Fall 2026. | course materials | lecture numbers as used in the deck |
-| 8 | I. Casanueva, T. Temčinas, D. Gerz, M. Henderson, I. Vulić, "Efficient Intent Detection with Dual Sentence Encoders," Proc. 2nd Workshop on NLP for Conversational AI, ACL, 2020, pp. 38-45. | https://aclanthology.org/2020.nlp4convai-1.5/ (BibTeX + PDF) | match. Table 3, BANKING77, full training data, accuracy: BERT-FIXED 87.19, BERT-TUNED 93.66, USE+ConveRT 93.36. |
-| 9 | C. Morris, PrivacyGuard repository, 2026. | https://github.com/cmorris714/PrivacyGuard | live |
-| 10 | J. Devlin, M.-W. Chang, K. Lee, K. Toutanova, "BERT: Pre-training of Deep Bidirectional Transformers for Language Understanding," Proc. NAACL-HLT 2019, pp. 4171-4186. | https://aclanthology.org/N19-1423/ (BibTeX) | match |
-| 11 | V. Sanh, L. Debut, J. Chaumond, T. Wolf, "DistilBERT, a distilled version of BERT: smaller, faster, cheaper and lighter," arXiv:1910.01108, 2019. | https://arxiv.org/abs/1910.01108 | match |
-| 12 | W. Wang, F. Wei, L. Dong, H. Bao, N. Yang, M. Zhou, "MiniLM: Deep Self-Attention Distillation for Task-Agnostic Compression of Pre-Trained Transformers," Advances in NeurIPS 33, 2020. | https://proceedings.neurips.cc/paper/2020/hash/3f5ee243547dee91fbd053c1c4a845aa-Abstract.html ; arXiv:2002.10957 | match |
-| 13 | N. Reimers, I. Gurevych, "Sentence-BERT: Sentence Embeddings using Siamese BERT-Networks," Proc. EMNLP-IJCNLP 2019, pp. 3982-3992. | https://aclanthology.org/D19-1410/ (BibTeX) | match |
-| 14 | I. Pilán, P. Lison, L. Øvrelid, A. Papadopoulou, D. Sánchez, M. Batet, "The Text Anonymization Benchmark (TAB): A Dedicated Corpus and Evaluation Framework for Text Anonymization," Computational Linguistics, vol. 48, no. 4, pp. 1053-1101, 2022. | https://aclanthology.org/2022.cl-4.19/ (BibTeX) | match |
-| 15 | Explosion, spaCy English pipelines: en_core_web_lg and en_core_web_trf 3.8.0, MIT license. | https://spacy.io/models/en | page live; both pipelines listed |
-| 16 | T. Wolf et al., "Transformers: State-of-the-Art Natural Language Processing," Proc. EMNLP 2020: System Demonstrations, pp. 38-45. | https://aclanthology.org/2020.emnlp-demos.6/ (BibTeX) | match |
-| 17 | F. Pedregosa et al., "Scikit-learn: Machine Learning in Python," JMLR, vol. 12, pp. 2825-2830, 2011. | https://jmlr.org/papers/v12/pedregosa11a.html | match |
-| 18 | T. G. Dietterich, "Approximate Statistical Tests for Comparing Supervised Classification Learning Algorithms," Neural Computation, vol. 10, no. 7, pp. 1895-1923, 1998. | Crossref record for doi:10.1162/089976698300017197 | match |
-| 19 | sentence-transformers/all-MiniLM-L6-v2 model card, Apache-2.0. | https://huggingface.co/sentence-transformers/all-MiniLM-L6-v2 | live; license apache-2.0 |
-| 20 | dslim/bert-base-NER model card, MIT. | https://huggingface.co/dslim/bert-base-NER | live; license mit |
+| 1 | PolyAI, BANKING77 dataset, CC BY 4.0. | https://huggingface.co/datasets/PolyAI/banking77 | page live |
+| 2 | Faker documentation, MIT license (Faker 37.12.0 used). | https://faker.readthedocs.io/en/stable/ | page live (site shows a newer release; the project pins 37.12.0) |
+| 3 | C. Morris, PrivacyGuard repository, 2026. | https://github.com/cmorris714/PrivacyGuard | live |
+| 4 | I. Casanueva, T. Temčinas, D. Gerz, M. Henderson, I. Vulić, "Efficient Intent Detection with Dual Sentence Encoders," Proc. 2nd Workshop on NLP for Conversational AI, ACL, 2020, pp. 38-45. | https://aclanthology.org/2020.nlp4convai-1.5/ (BibTeX + PDF) | match. Table 3, BANKING77, full training data, accuracy: BERT-FIXED 87.19, BERT-TUNED 93.66, USE+ConveRT 93.36. |
+| 5 | S. L. Garfinkel, "De-Identification of Personal Information," NISTIR 8053, NIST, Oct. 2015. | https://doi.org/10.6028/NIST.IR.8053 (Crossref record and PDF) | title and publisher match |
+| 6 | IBM, "Cost of a Data Breach Report 2026," 2026. | https://www.ibm.com/reports/data-breach; figure cross-checked in press coverage of the 2026 report | global average breach cost US$4.99M, reported as a record |
+| 7 | Google Cloud, "Sensitive Data Protection pricing." | https://cloud.google.com/sensitive-data-protection/pricing | live; content inspection US$3.00 per GiB from 1 GiB to 1 TiB per month, first 1 GiB free; content transformation US$2.00 per GiB; minimum of 1 KB billed per request for hybrid inspection. Because per-request minimums depend on batching, no total dollar figure is computed. |
+| 8 | A. Riabi, M. Mahamdi, V. Mouilleron, D. Seddah, "Cloaked Classifiers: Pseudonymization Strategies on Sensitive Classification Tasks," Proc. 5th Workshop on Privacy in NLP, ACL, 2024, pp. 123-136. | https://aclanthology.org/2024.privatenlp-1.13/ (BibTeX) | match |
+| 9 | Presidio documentation (presidio-analyzer 2.2.364 used). | https://presidio.dataprivacystack.org/ | page live |
+| 10 | I. Pilán, P. Lison, L. Øvrelid, A. Papadopoulou, D. Sánchez, M. Batet, "The Text Anonymization Benchmark (TAB): A Dedicated Corpus and Evaluation Framework for Text Anonymization," Computational Linguistics, vol. 48, no. 4, pp. 1053-1101, 2022. | https://aclanthology.org/2022.cl-4.19/ (BibTeX) | match |
+| 11 | J. Devlin, M.-W. Chang, K. Lee, K. Toutanova, "BERT: Pre-training of Deep Bidirectional Transformers for Language Understanding," Proc. NAACL-HLT 2019, pp. 4171-4186. | https://aclanthology.org/N19-1423/ (BibTeX) | match |
+| 12 | sentence-transformers/all-MiniLM-L6-v2 model card, Apache-2.0. | https://huggingface.co/sentence-transformers/all-MiniLM-L6-v2 | live; license apache-2.0 |
+| 13 | T. Wolf et al., "Transformers: State-of-the-Art Natural Language Processing," Proc. EMNLP 2020: System Demonstrations, pp. 38-45. | https://aclanthology.org/2020.emnlp-demos.6/ (BibTeX) | match |
+| 14 | F. Pedregosa et al., "Scikit-learn: Machine Learning in Python," JMLR, vol. 12, pp. 2825-2830, 2011. | https://jmlr.org/papers/v12/pedregosa11a.html | match |
+| 15 | V. Sanh, L. Debut, J. Chaumond, T. Wolf, "DistilBERT, a distilled version of BERT: smaller, faster, cheaper and lighter," arXiv:1910.01108, 2019. | https://arxiv.org/abs/1910.01108 | match |
+| 16 | Explosion, spaCy English pipelines: en_core_web_lg and en_core_web_trf 3.8.0, MIT license. | https://spacy.io/models/en | page live; both pipelines listed |
+| 17 | W. Wang, F. Wei, L. Dong, H. Bao, N. Yang, M. Zhou, "MiniLM: Deep Self-Attention Distillation for Task-Agnostic Compression of Pre-Trained Transformers," Advances in NeurIPS 33, 2020. | https://proceedings.neurips.cc/paper/2020/hash/3f5ee243547dee91fbd053c1c4a845aa-Abstract.html ; arXiv:2002.10957 | match |
+| 18 | N. Reimers, I. Gurevych, "Sentence-BERT: Sentence Embeddings using Siamese BERT-Networks," Proc. EMNLP-IJCNLP 2019, pp. 3982-3992. | https://aclanthology.org/D19-1410/ (BibTeX) | match |
+| 19 | Qwen Team, "Qwen2.5-0.5B-Instruct," Hugging Face model card, Apache-2.0, 2024. | https://huggingface.co/Qwen/Qwen2.5-0.5B-Instruct | live; 0.49B parameters (0.36B non-embedding); license apache-2.0 |
+| 20 | T. G. Dietterich, "Approximate Statistical Tests for Comparing Supervised Classification Learning Algorithms," Neural Computation, vol. 10, no. 7, pp. 1895-1923, 1998. | Crossref record for doi:10.1162/089976698300017197 | match |
+| 21 | B. Efron and R. J. Tibshirani, An Introduction to the Bootstrap, 1993, doi:10.1007/978-1-4899-4541-9. | Springer e-book record for the DOI (first published by Chapman & Hall) | title, authors, year match |
+| 22 | S. Holm, "A Simple Sequentially Rejective Multiple Test Procedure," Scandinavian Journal of Statistics, vol. 6, no. 2, pp. 65-70, 1979. | bibliographic records (JSTOR metadata) | match |
+| 23 | E. B. Wilson, "Probable Inference, the Law of Succession, and Statistical Inference," Journal of the American Statistical Association, vol. 22, no. 158, pp. 209-212, 1927. | bibliographic records (publisher metadata) | match |
+| 24 | dslim/bert-base-NER model card, MIT. | https://huggingface.co/dslim/bert-base-NER | live; license mit |
